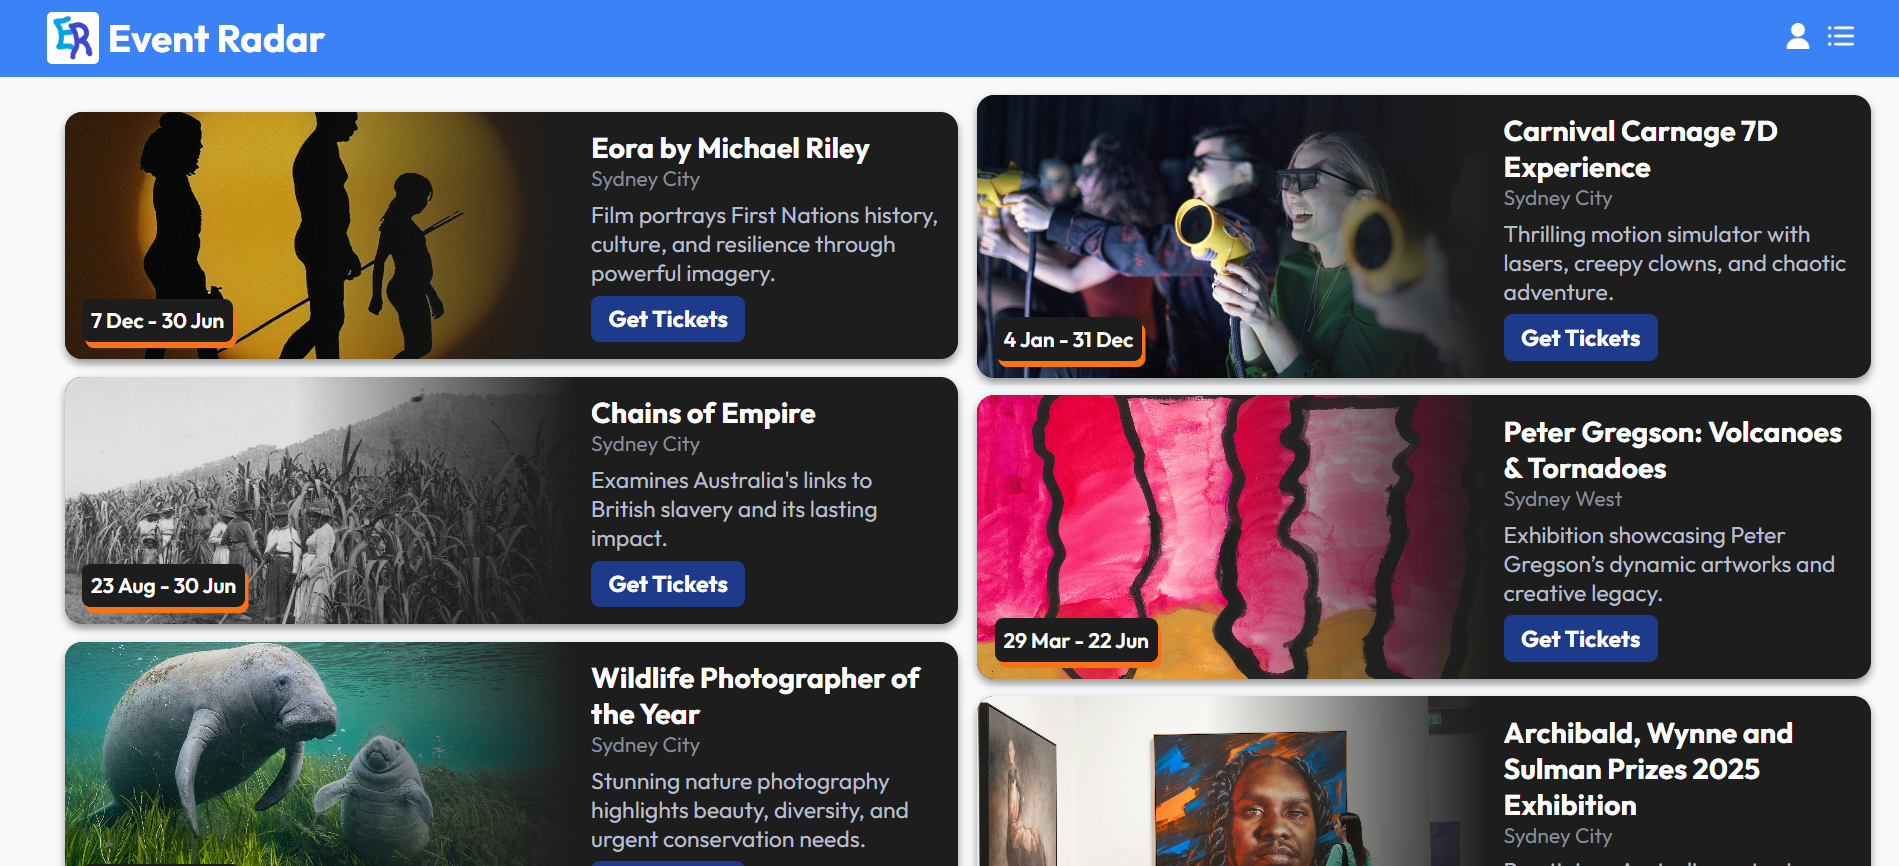
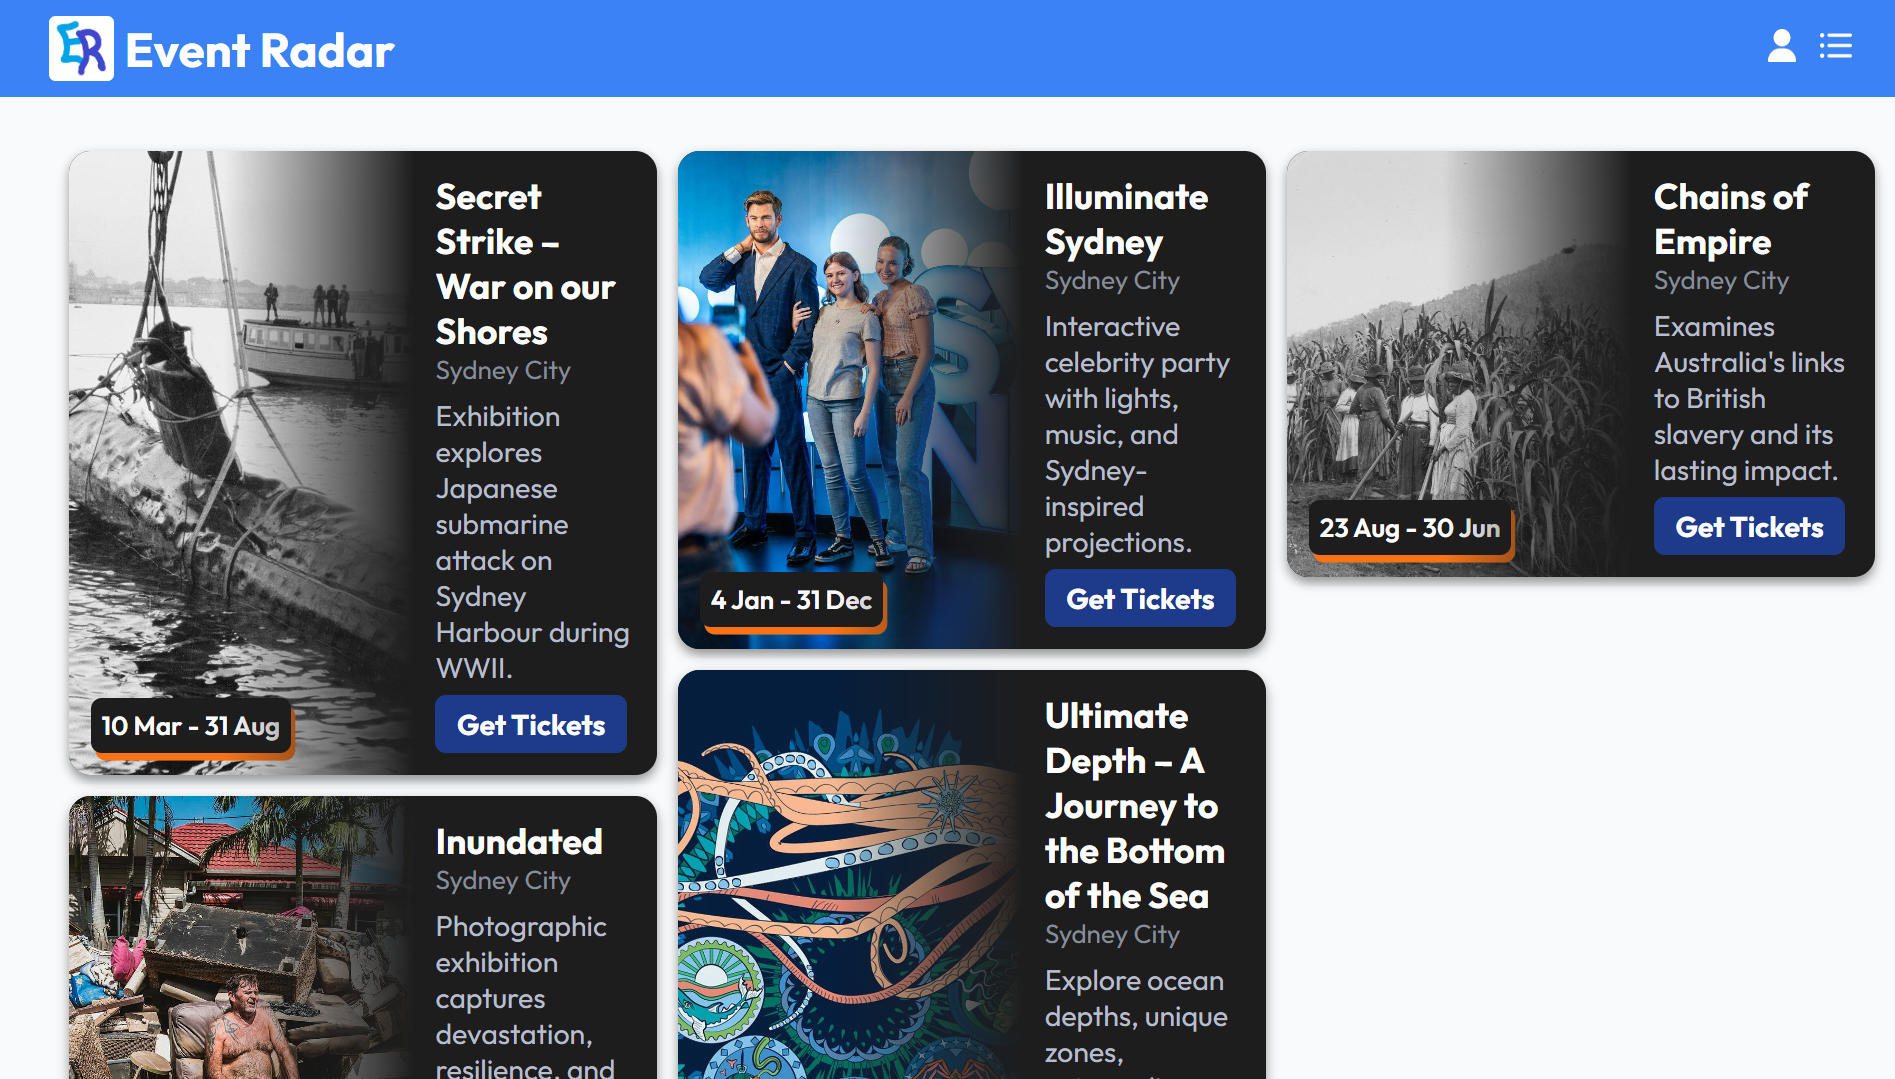
masonry layout

diff --git a/client/src/pages/events/Events.jsx b/client/src/pages/events/Events.jsx
@@ -1,4 +1,4 @@
-import React, { useState, useEffect } from "react";
+import React, { useState, useEffect, useCallback } from "react";
 import "./Events.css";
 import Header from "../../components/header/Header";
 import Card from "../../components/card/Card";
@@ -7,25 +7,56 @@ const Events = () => {
   const [events, setEvents] = useState([]);
   const [loading, setLoading] = useState(false);
   const [next, setNext] = useState("");
+  const [columnCount, setColumnCount] = useState(getColumnCount());
 
+  // get the current column count based on the window width
+  function getColumnCount() {
+    const width = window.innerWidth;
+    if (width < 600) return 1;
+    if (width < 900) return 2;
+    return 3;
+  }
+
+  // adjust the layout
+  const handleResize = useCallback(() => {
+    setColumnCount(getColumnCount());
+  }, []);
+
+  // Set up the resize event listener
+  useEffect(() => {
+    window.addEventListener("resize", handleResize);
+    return () => {
+      window.removeEventListener("resize", handleResize);
+    };
+  }, [handleResize]);
+
+  // Fetch events when the component mounts
   useEffect(() => {
     if (!events.length) {
       fetchEvents("http://localhost:8000/events?offset=0");
     }
-  }, []);
+  }, [events]);
 
+  // Fetch more events
   const fetchEvents = async (link) => {
     setLoading(true);
-
     const response = await fetch(link);
     const result = await response.json();
 
     if (result.success) {
       setEvents((prev) => [...prev, ...result.events]);
       setNext(result.next);
-      console.log(result.next);
       setLoading(false);
     }
+  };
+
+  // chunk events into columns
+  const distributeToColumns = (items, columns) => {
+    const distributed = Array.from({ length: columns }, () => []);
+    items.forEach((item, index) => {
+      distributed[index % columns].push(item);
+    });
+    return distributed;
   };
 
   return (
@@ -34,25 +65,21 @@ const Events = () => {
 
       <div className="container">
         <div className="cardWrapper">
-          {events.length ? (
-            events.map((event, index) => {
-              return <Card key={index} event={event} />;
-            })
-          ) : (
-            <div className="noEvents">
-              <h1>No events found :(</h1>
-            </div>
+          {distributeToColumns(events, columnCount).map(
+            (columnEvents, colIdx) => (
+              <div className="masonry-column" key={colIdx}>
+                {columnEvents.map((event, i) => (
+                  <Card key={`${colIdx}-${i}`} event={event} />
+                ))}
+              </div>
+            )
           )}
         </div>
 
         <button
-          onClick={() => {
-            setLoading(true);
-            fetchEvents(next);
-          }}
+          onClick={() => fetchEvents(next)}
           className="loadMore"
           disabled={loading}
-          type="button"
           style={next ? {} : { display: "none" }}
         >
           {loading ? "Loading..." : "Load More"}

diff --git a/server/index.js b/server/index.js
@@ -1,7 +1,14 @@
+require("dotenv").config();
 const express = require("express");
 const cors = require("cors");
 const app = express();
-require("dotenv").config();
+const puppeteer = require("puppeteer-extra");
+const StealthPlugin = require("puppeteer-extra-plugin-stealth");
+const events = require("./schemas/events");
+const emails = require("./schemas/emails");
+const cron = require("node-cron");
+
+let totalEvents = 0;
 
 // EXPRESS
 app.use(express.json());
@@ -14,54 +21,21 @@ app.use(
 );
 
 // Connect to MongoDB
-// const mongoose = require("mongoose");
-// async function main() {
-//   try {
-//     await mongoose.connect(process.env.MONGODB_URI);
-//     console.log("Connected to MongoDB!");
-
-//     (async function () {
-//       const eventsCount = await events.countDocuments();
-//       totalEvents = eventsCount;
-//     })();
-//   } catch (error) {
-//     console.error("Failed to connect to MongoDB", error.message);
-//   }
-// }
-// main();
-
-const { MongoClient, ServerApiVersion } = require("mongodb");
-
-// Create a MongoClient with a MongoClientOptions object to set the Stable API version
-const client = new MongoClient(process.env.MONGODB_URI, {
-  serverApi: {
-    version: ServerApiVersion.v1,
-    strict: true,
-    deprecationErrors: true,
-  },
-});
-
-async function run() {
+const mongoose = require("mongoose");
+async function main() {
   try {
-    // Connect the client to the server	(optional starting in v4.7)
-    await client.connect();
-    // Send a ping to confirm a successful connection
-    await client.db("admin").command({ ping: 1 });
-    console.log(
-      "Pinged your deployment. You successfully connected to MongoDB!"
-    );
-  } finally {
-    // Ensures that the client will close when you finish/error
-    await client.close();
+    await mongoose.connect(process.env.MONGODB_URI);
+    console.log("Connected to MongoDB!");
+
+    (async function () {
+      const eventsCount = await events.countDocuments();
+      totalEvents = eventsCount;
+    })();
+  } catch (error) {
+    console.error("Failed to connect to MongoDB", error.message);
   }
 }
-run().catch(console.dir);
-
-// Schemas
-const events = require("./schemas/events");
-const emails = require("./schemas/emails");
-
-let totalEvents = 0;
+main();
 
 // Endpoints
 app.get("/events", async (req, res) => {
@@ -119,9 +93,6 @@ app.post("/emails", async (req, res) => {
 });
 
 // PUPPETEER SCRAPER
-const puppeteer = require("puppeteer-extra");
-const StealthPlugin = require("puppeteer-extra-plugin-stealth");
-
 puppeteer.use(StealthPlugin());
 
 async function scrapeEvents() {
@@ -200,11 +171,10 @@ async function scrapeEvents() {
 scrapeEvents();
 
 // SCHEDULER
-const cron = require("node-cron");
 cron.schedule("0 */5 * * *", scrapeEvents); // every 5 hours
 
 // SERVER START
-const port = process.env.PORT || 10000;
+const port = process.env.PORT || 8000;
 app.listen(port, () => {
   console.log(`Listening on port ${port}`);
 });

diff --git a/client/src/pages/events/Events.css b/client/src/pages/events/Events.css
@@ -3,29 +3,37 @@
   flex-direction: column;
   align-items: center;
   gap: 2vmin;
+}
 
-  .container {
+.container {
+  display: flex;
+  flex-direction: column;
+  align-items: center;
+  width: 100%;
+
+  .cardWrapper {
     display: flex;
-    flex-direction: column;
-    align-items: center;
-    width: 100%;
+    gap: 2vmin;
+    width: 95%;
+    padding: 1vmin;
+    justify-content: center;
+  }
 
-    .cardWrapper {
-      width: 95%;
-      columns: 500px;
-    }
+  .masonry-column {
+    gap: 1.5vmin;
+    flex: 1;
+  }
 
-    .loadMore {
-      margin:  2vmin;
-      padding: 1vmin;
-      border: none;
-      border-radius: 1vmin;
-      outline: none;
-      background-color: var(--color-primary);
-      color: var(--color-surface);
-      font-size: 1.2rem;
-      font-weight: bold;
-      cursor: pointer;
-    }
+  .loadMore {
+    margin: 2vmin;
+    padding: 1vmin;
+    border: none;
+    border-radius: 1vmin;
+    outline: none;
+    background-color: var(--color-primary);
+    color: var(--color-surface);
+    font-size: 1.2rem;
+    font-weight: bold;
+    cursor: pointer;
   }
 }

diff --git a/client/src/components/card/Card.css b/client/src/components/card/Card.css
@@ -67,9 +67,7 @@
     .descriptionAndLink {
       display: flex;
       flex-direction: column;
-      justify-content: space-between;
       align-items: flex-start;
-      height: 100%;
       gap: 1vmin;
 
       span {
